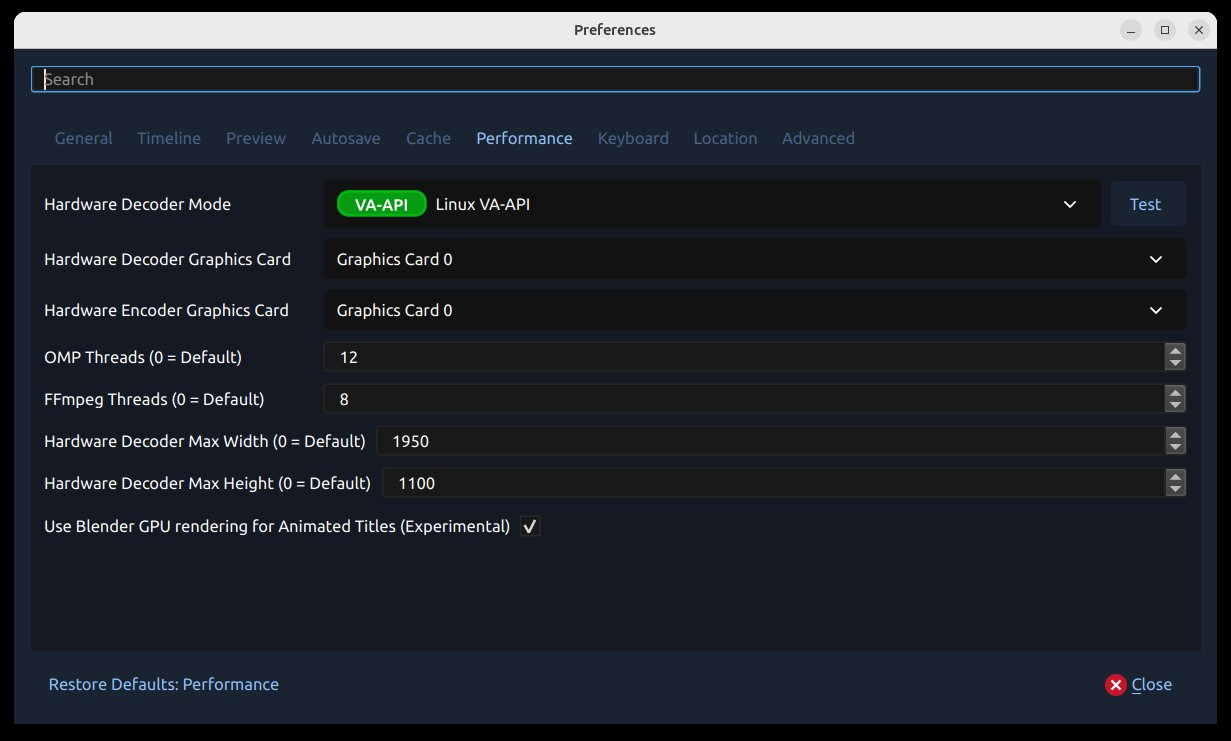
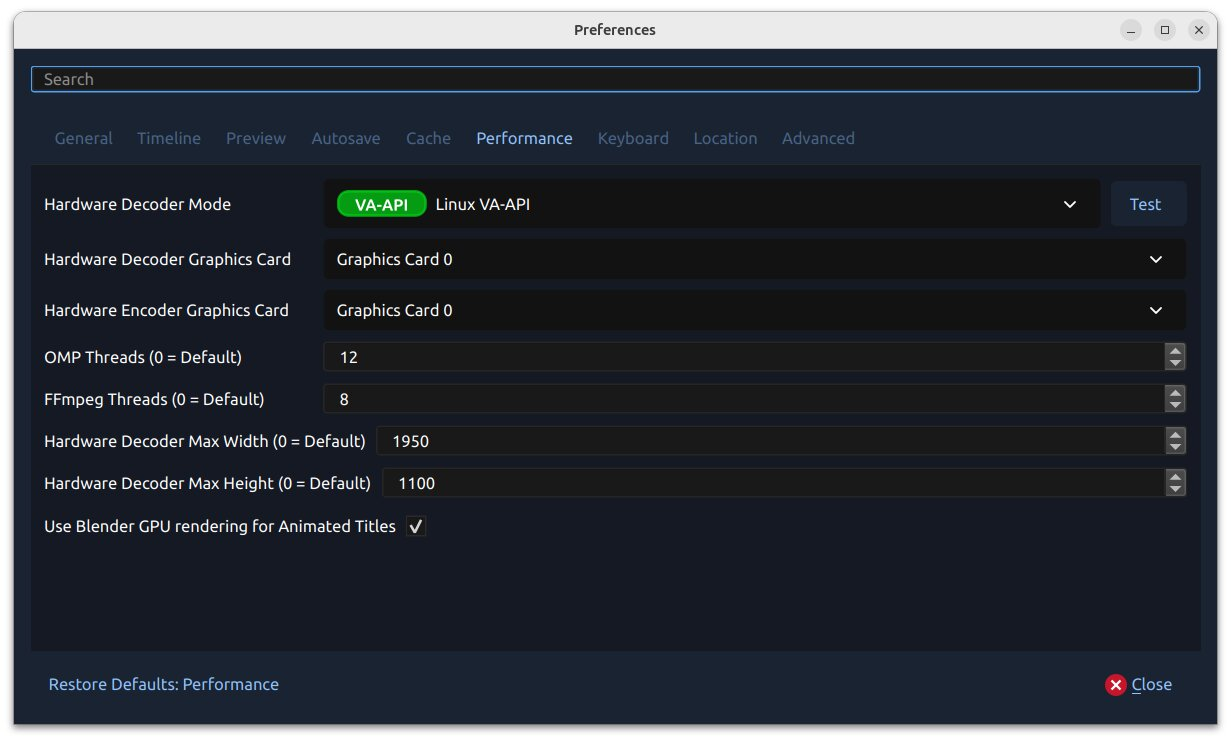
Removed Experimental label from Blender GPU acceleration

Changed region(s): [[0.0, 0.0, 1.0, 1.0], [0.3087, 0.6829, 0.4322, 0.7449]]

diff --git a/doc/preferences.rst b/doc/preferences.rst
@@ -242,8 +242,8 @@ NOTE: On systems with older graphics cards, hardware acceleration may not always
      - Optional maximum width for hardware decoding. Use ``0`` for no explicit limit.
    * - Hardware Decoder Max Height (0 = Default)
      - Optional maximum height for hardware decoding. Use ``0`` for no explicit limit.
-   * - Use Blender GPU rendering for Animated Titles (Experimental)
-     - Enable GPU rendering for Blender-based animated titles (experimental).
+   * - Use Blender GPU rendering for Animated Titles
+     - Enable GPU rendering for Blender-based animated titles.
 
 .. _preferences_keyboard_ref:
 